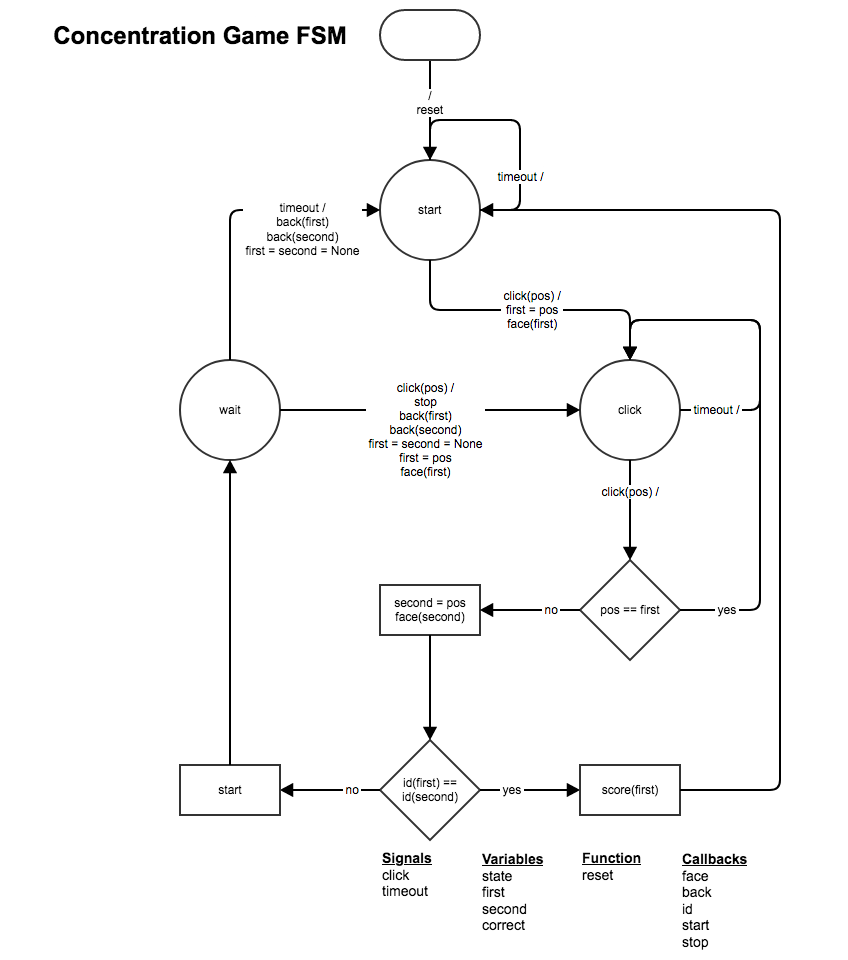
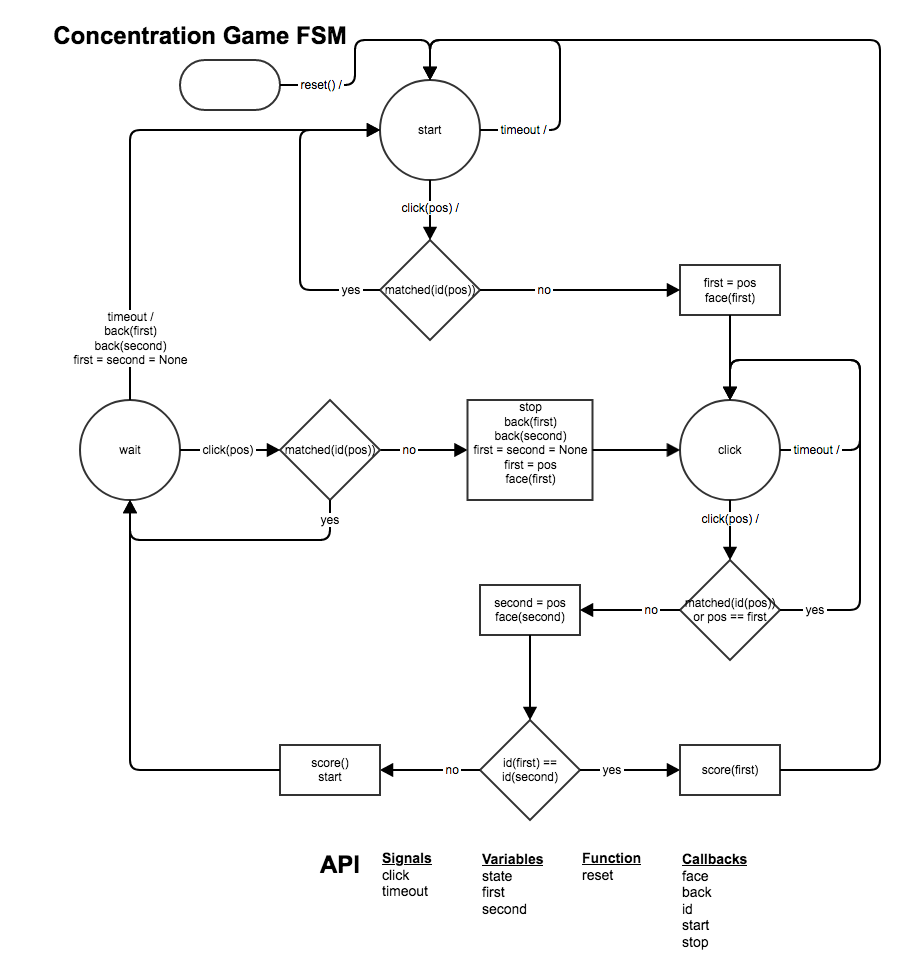
Updated README.md documentation (including gameplay FSM diagram).

diff --git a/README.md b/README.md
@@ -12,21 +12,49 @@ Score is determined... **HOW?**
 
 | File | Description |
 | --- | --- |
-| `src/app.py` | This is the main [Tkinter](https://docs.python.org/3/library/tkinter.html) GUI app. |
-| `src/files.py` | Module that... |
-| `src/gameplay.py` | Module that... |
-| `src/layout.py` | Module that... |
-| `src/log.py` | Module that... |
-| `src/main.py` | Module that... |
-| `src/timer.py` | Module that... |
-| `src/unittest.py` | Module that... |
-| `tests/test_layout.py` | Unit tests for `layout.py`. |
+| `src/app.py` | The main [Tkinter](https://docs.python.org/3/library/tkinter.html) GUI app. |
+| `src/files.py` | Module that manages image file paths. |
+| `src/gameplay.py` | Module that implements the gameplay [state machine](https://en.wikipedia.org/wiki/Mealy_machine). |
+| `src/layout.py` | Module that calculates game card layouts. |
+| `src/log.py` | Module that implements app [`logging`](https://docs.python.org/3/library/logging.html). |
+| `src/main.py` | Module that initiates the app. |
+| `src/score.py` | Module that implements game scoring. |
+| `tests/test_layout.py` | Unit tests for `layout.py` (so far). |
+
+### `app.py`
+
+More [TK](https://en.wikipedia.org/wiki/To_come_(publishing)).
+
+### `files.py`
+
+More [TK](https://en.wikipedia.org/wiki/To_come_(publishing)).
 
 ### `gameplay.py`
 
 ![concentration state machine](./concentration-state-machine.png)
+
 [Gliffy](https://gliffy.com) [source](https://go.gliffy.com/go/
 publish/13517385)
+
+### `layout.py`
+
+More [TK](https://en.wikipedia.org/wiki/To_come_(publishing)).
+
+### `log.py`
+
+More [TK](https://en.wikipedia.org/wiki/To_come_(publishing)).
+
+### `main.py`
+
+More [TK](https://en.wikipedia.org/wiki/To_come_(publishing)).
+
+### `score.py`
+
+More [TK](https://en.wikipedia.org/wiki/To_come_(publishing)).
+
+### `tests/`
+
+More [TK](https://en.wikipedia.org/wiki/To_come_(publishing)).
 
 ## TODO
 
@@ -34,16 +62,13 @@ Tasks for this project include:
 
 - *This [documentation file](https://github.com/psb-2020-2021-apcsp/concentration-game/blob/main/README.md) should be completed*.
 - In general, all code should follow [PEP-8](https://www.python.org/dev/peps/pep-0008/).
-- We should create a credit frame with the [repo link](https://github.com/psb-2020-2021-apcsp/concentration-game) and the [card image](http://acbl.mybigcommerce.com/52-playing-cards/) link at the bottom of the main `Frame`. If we follow [this](https://stackoverflow.com/a/23482749), we should be able to make the credits clickable.
 - Currently, the `Image` randomization takes place in `app.py` rather than `files.py`. There are two issues:
-  - `Image`s are loaded with every change of game geometry. They should be loaded just once.
+  - `Image`s are loaded with every change of game geometry (including the card back). It seems they should be loaded just once, but each time they must be resized &mdash; would that mean their quality would degrade with each game?
   - Should the `Image` randomization take place in `files.py`?
-- The game-play [state machine](https://en.wikipedia.org/wiki/Mealy_machine) should be documented with corrections. 
-- Also, **because `fsm` is invoked from different threads, it is possible to get into the wrong state with no way out**. So, either handle clicks waiting for a timeout, or synchronize `fsm`.
-- Scoring simply keeps track of matches. Nothing is done to detect winning, nor is anything done with a maximum time for losing.
 - Unit tests (using [`pytest`](https://docs.pytest.org/)) for *all* functions. (We has started using `unittest`).
-- '`tkinter` is not thread safe' &mdash; yikes! We have to do something about that (see [this](https://stackoverflow.com/questions/32555945/python-3-and-tkinter-thread-join-blocks-main-thread-forever)). We should be able to use [`after`](https://www.pythontutorial.net/tkinter/tkinter-after/) *in lieu* of `timer.py`.
+- Add some [command-line options](https://docs.python.org/3/library/argparse.html) (perhaps initial game size, logging level, *etc.*?).
 - Classes? Should we encapsulate everything and make it object-oriented?
+- Make this a runnable app? (How?)
 - *So much more!* (See our [notes](https://drive.google.com/file/d/1UhX4aK-9mBqioveEm5JWuqGeYFfpsKQS/view).)
 
 [&#128279; permalink](https://psb-2020-2021-apcsp.github.io/concentration-game) and [&#128297; repository](https://github.com/psb-2020-2021-apcsp/concentration-game) for this page.
